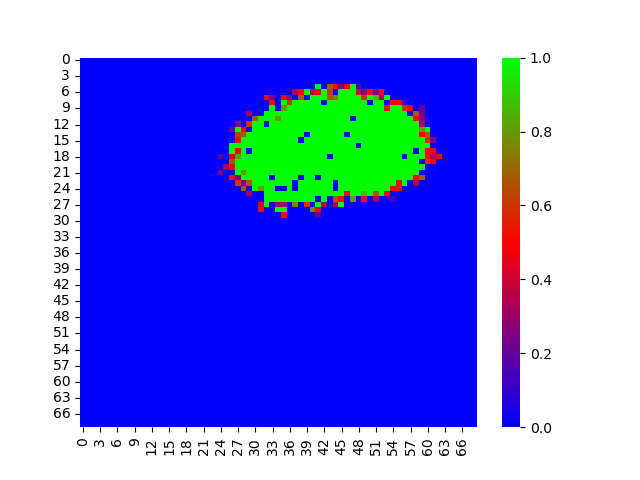
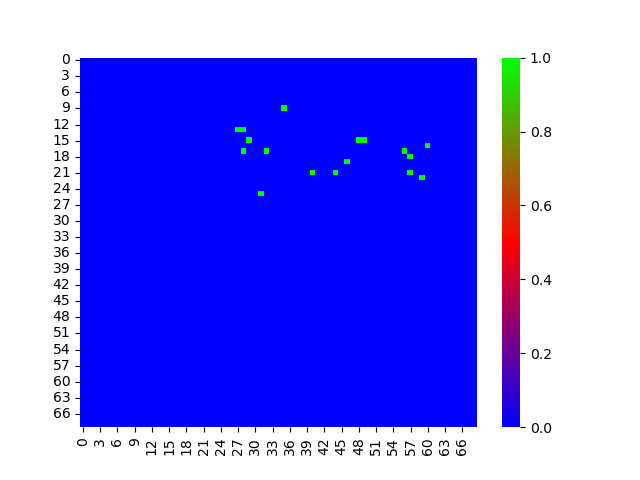
Add a timer

Changed region(s): [[0.3438, 0.1562, 0.6875, 0.4688]]

diff --git a/task_a/simulation_math.py b/task_a/simulation_math.py
@@ -147,19 +147,11 @@ class SimulationMath(Globals):
         else:
             for i, coordinate in enumerate(pairs):
                 
-                #if condition(coordinate[0], coordinate[1]) or condition(x_pos, y_pos):
-                if coordinate[0] > 0.96875 or coordinate[0] < -0.96875 or coordinate[1] < -0.96875 or coordinate[1] > 0.96875:
-                        u, v = self.bilinear_interpolation_using_package(x_pos, y_pos)
-                        x, y = None, None
-                        velocity.append((x,y,u,v))
-                        break
+                for j, points in enumerate(self.data):
 
-                else:
-                    for j, points in enumerate(self.data):
-
-                        if len(pairs) == 4:
-                            if coordinate[0] == points[0] and coordinate[1] == points[1]:
-                                velocity.append(points)
+                    if len(pairs) == 4:
+                        if coordinate[0] == points[0] and coordinate[1] == points[1]:
+                            velocity.append(points)
 
         return velocity
 

diff --git a/task_a/simulation.py b/task_a/simulation.py
@@ -1,6 +1,7 @@
 import matplotlib.pyplot as plt
 import seaborn as sns
 import numpy as np
+import time
 
 from simulation_math import SimulationMath
 from initial_state import InitialState
@@ -116,6 +117,9 @@ class TaskA(InitialState,SimulationMath,Concentration):
 
 
     def main(self):
+
+        start = time.process_time()
+
         self.substance["sub_1"], self.substance["sub_2"] = self.taskA_initial_state()
 
         print("[INFO] Running the simulation...")
@@ -133,6 +137,7 @@ class TaskA(InitialState,SimulationMath,Concentration):
 
         print("The number of particles involved: ", (len(self.substance["sub_1"]) + len(self.substance["sub_2"])))
         print("[INFO] Simulation status : Success")
+        print("[INFO] The time taken to complete the simulation is {time}".format(time=(time.process_time() - start)))
 
         plt.show()
 

diff --git a/task_a/globals.py b/task_a/globals.py
@@ -18,7 +18,7 @@ class Globals:
         self.yMin = -1
         
         # Number of particles
-        self.Np = 15000
+        self.Np = 150
 
         # Diffusivity
         self.D = 0.01
@@ -39,7 +39,7 @@ class Globals:
         self.y = np.random.uniform(low=-1, high=1, size=self.Np)
 
         # For size of scatter plots, increase the value to get bigger scatter size
-        self.size = 1
+        self.size = 20
 
         self.velocity_file = 'data_file/velocityCMM3.dat'
 

diff --git a/task_a/main.py b/task_a/main.py
@@ -1,6 +1,7 @@
 from simulation import TaskA
 
 if __name__ == '__main__':
+
     TaskA().main()
 
 
